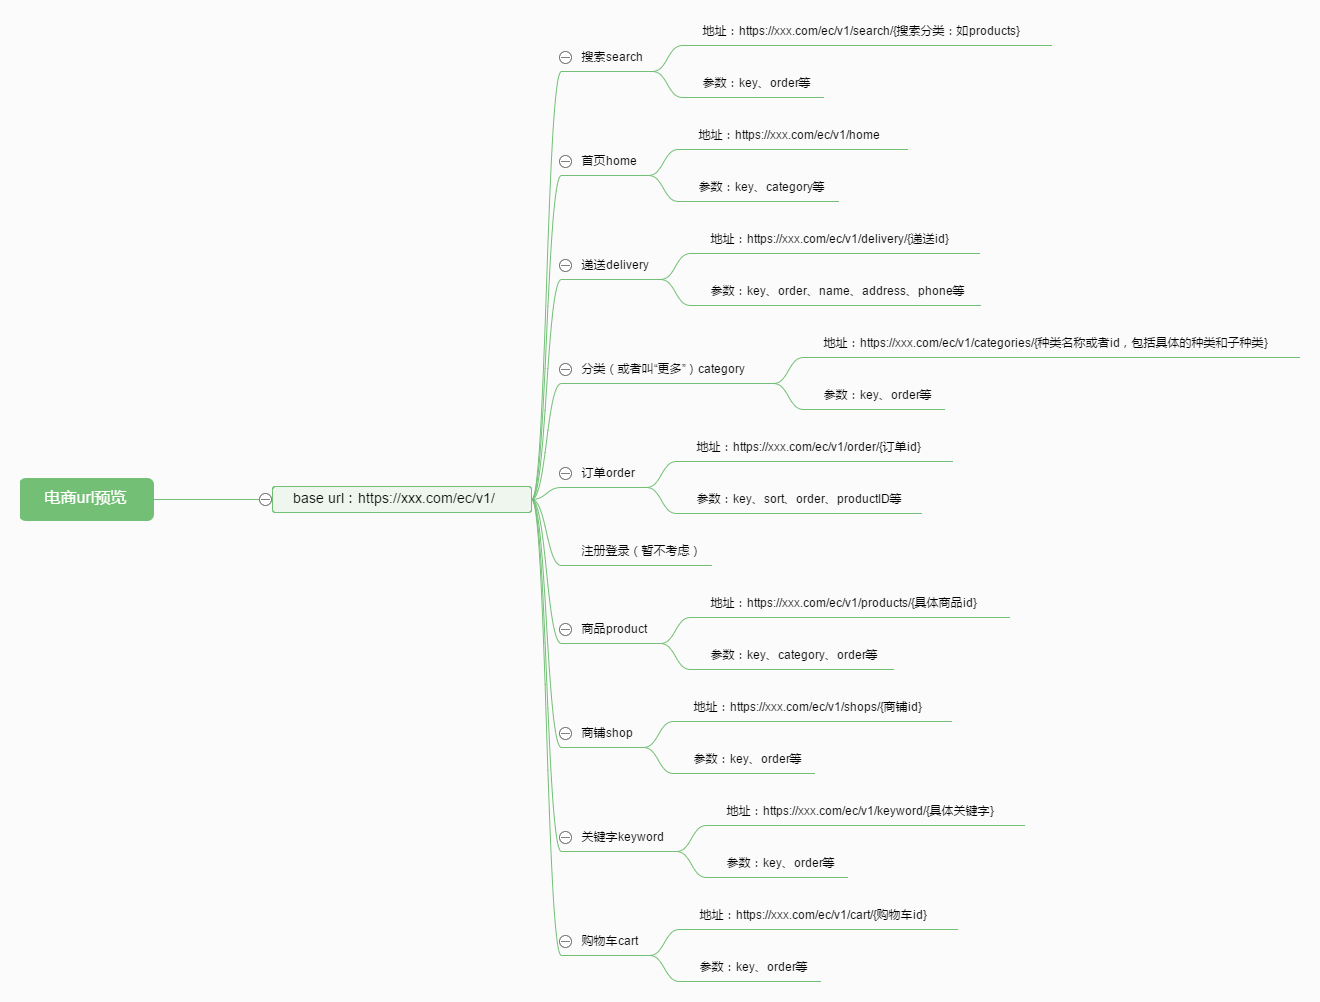
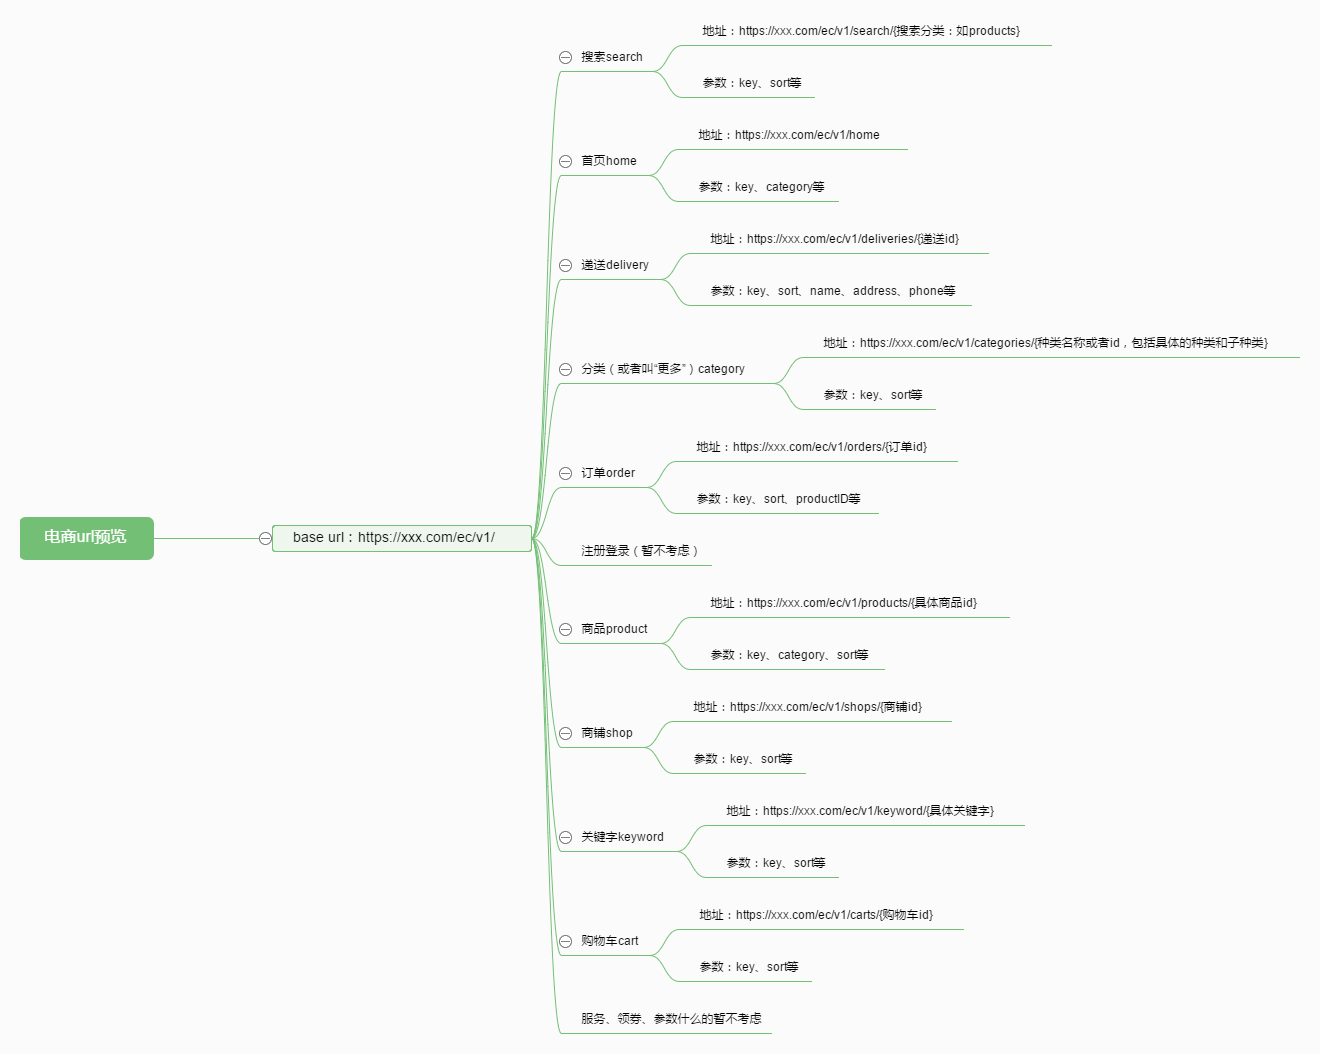
`

diff --git a/电商项目RESTful接口设计思考/电商项目RESTful接口设计思考.md b/电商项目RESTful接口设计思考/电商项目RESTful接口设计思考.md
@@ -134,7 +134,7 @@ https://{serviceRoot}/{collection}/{id}
 |500|内部服务器错误。|
 
 ### 电商项目url预览
-![url预览](https://i.imgur.com/e7x6key.png)
+![url预览](https://i.imgur.com/3VKI6Oy.png)
 
 站在数据的角度，若想满足7大模块的功能需求，可以将接口分成如下几类：
 * base url：https://xxx.com/ec/v1/
@@ -304,15 +304,15 @@ Status:200 OK
 
 ### 递送部分
 递送部分接口有“增删改查”
->地址：https://xxx.com/ec/v1/delivery/{递送uid}
+>地址：https://xxx.com/ec/v1/deliveries/{递送uid}
 
 #### 新增一条或者多条递送
->地址：https://xxx.com/ec/v1/delivery
+>地址：https://xxx.com/ec/v1/deliveries
 
 ###### 请求头
 
 ```
-POST /ec/v1/delivery
+POST /ec/v1/deliveries
 Accept: application/json
 Content-Type: application/json;charset=UTF-8
 ```
@@ -388,13 +388,13 @@ Status:200 OK
 ```
 
 #### 删除一条或者多条递送
-* 删除一条https://xxx.com/ec/v1/delivery/{递送uid}
-* 删除多条https://xxx.com/ec/v1/delivery
+* 删除一条https://xxx.com/ec/v1/deliveries/{递送uid}
+* 删除多条https://xxx.com/ec/v1/deliveries
 
 ###### 请求头
 
 ```
-DELETE /ec/v1/delivery
+DELETE /ec/v1/deliveries
 Accept: application/json
 Content-Type: application/json;charset=UTF-8
 ```
@@ -452,8 +452,8 @@ Status:200 OK
 |uid | String | 表示已删除递送信息的主键 |
 
 #### 修改一条或者多条递送
-* 修改一条https://xxx.com/ec/v1/delivery/{递送uid}
-* 修改多条https://xxx.com/ec/v1/delivery
+* 修改一条https://xxx.com/ec/v1/deliveries/{递送uid}
+* 修改多条https://xxx.com/ec/v1/deliveries
 ###### 请求头
 
 ```
@@ -517,8 +517,8 @@ Status:200 OK
 |uid | String | 表示已修改递送信息的主键 |
 
 #### 查询一条或者多条递送
-* 查询一条https://xxx.com/ec/v1/delivery/{递送uid}
-* 查询多条https://xxx.com/ec/v1/delivery
+* 查询一条https://xxx.com/ec/v1/deliveries/{递送uid}
+* 查询多条https://xxx.com/ec/v1/deliveries
 ###### 请求头
 
 ```
